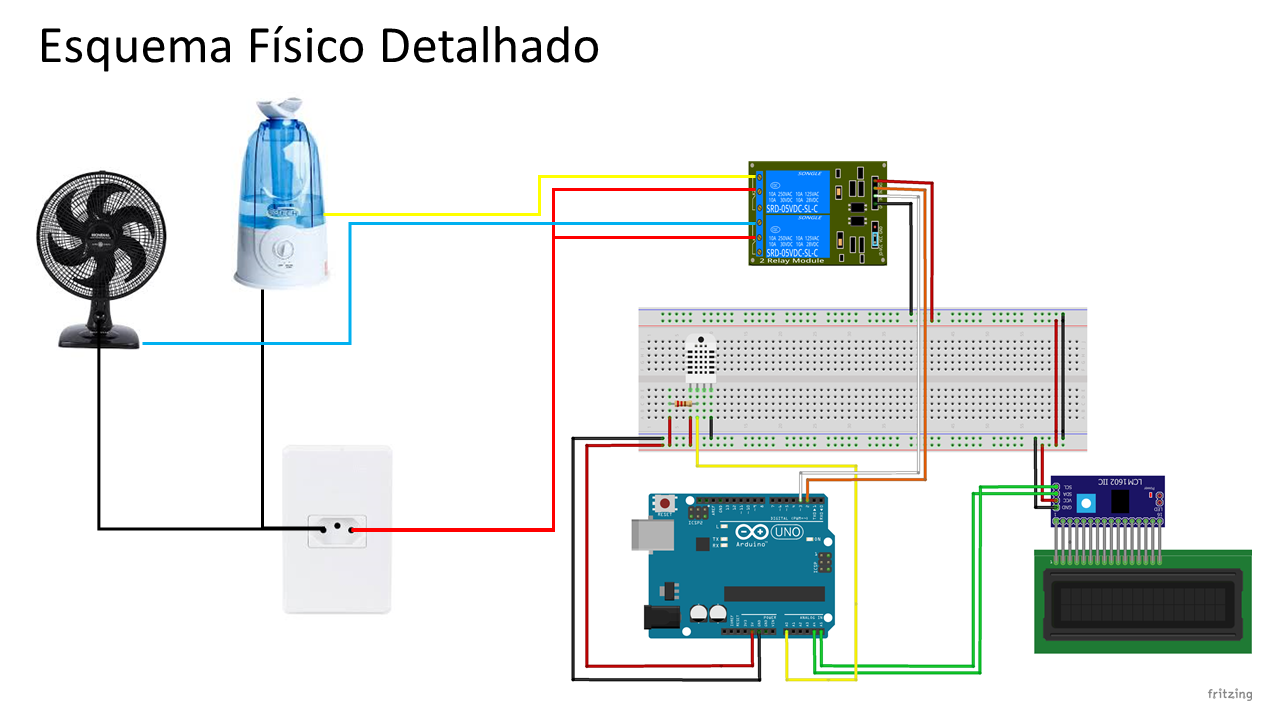
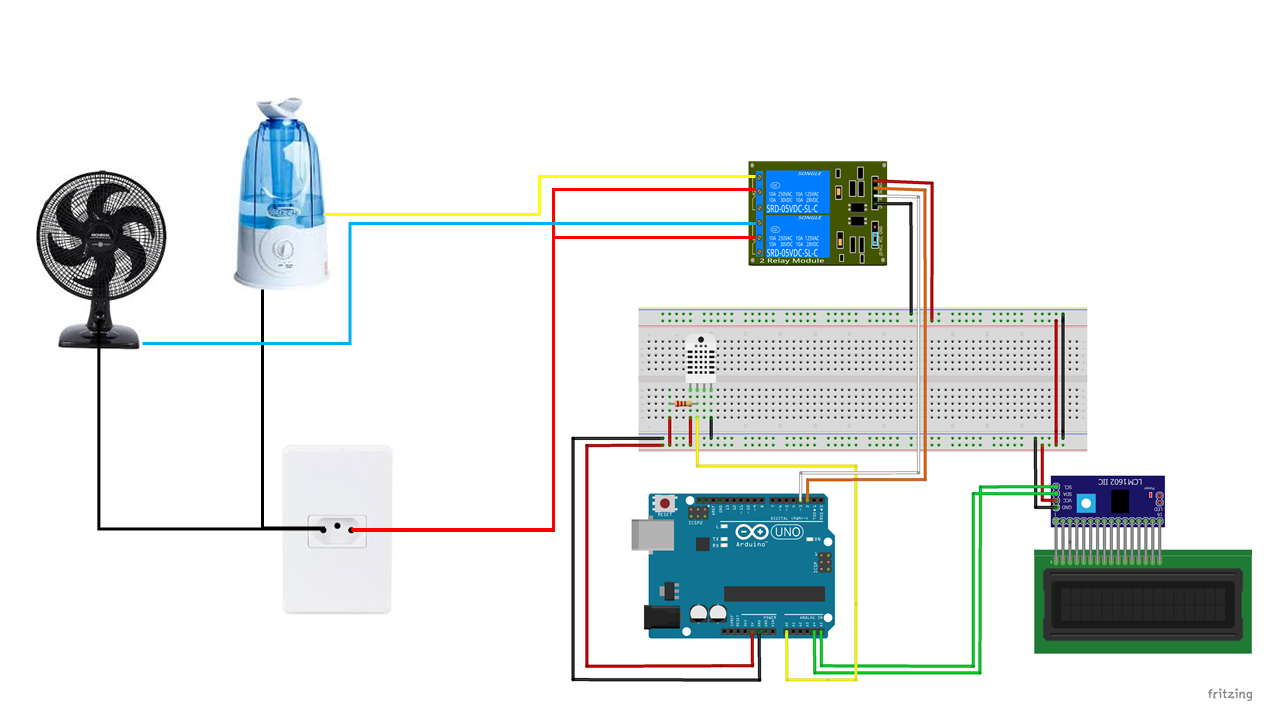
Inclusão da funcionalidade de modo automatico. Inclusão das bibliotecas do projeto arduino.

Changed region(s): [[0.0312, 0.0306, 0.4688, 0.0917]]

diff --git a/README.md b/README.md
@@ -2,11 +2,13 @@
 
 Um projeto com objetivo de manter o ambiente com uma temperatura e umidade adequada e controle remoto dos equipamentos.
 
-# Vídeo Apresentação
+### Vídeo Apresentação
 [Clique_Aqui](https://youtu.be/497JHrPEmwQ)  
 
+### Topologia do Projeto
 ![Topologia_projeto](/doc/images/TopologiaProjeto.png)
 
+### Esquema Físico Detalhado
 ![Esquema_Fisico_Detalhado](/doc/images/EsquemaFisicoDetalhado.png)
 
 ### Materiais Utilizados.
